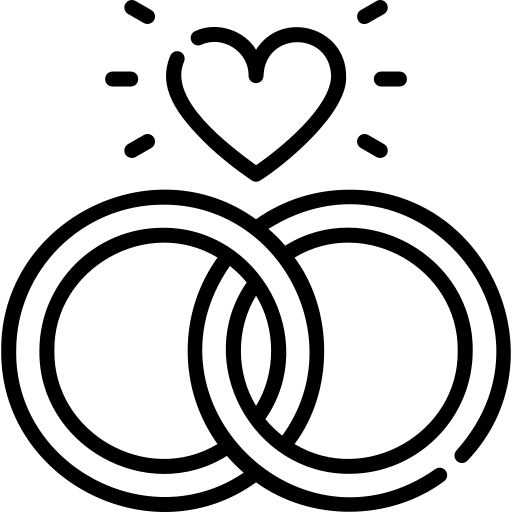
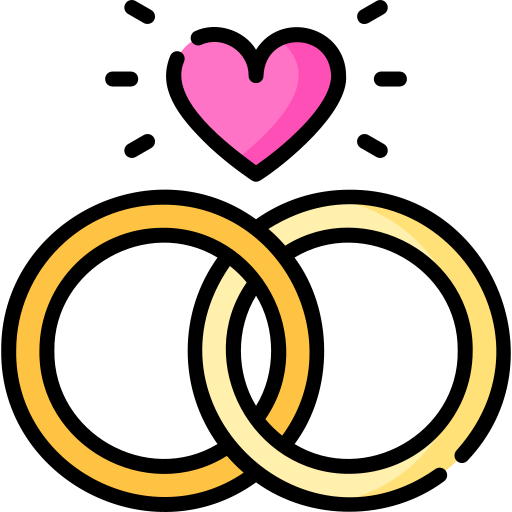
finish1

Changed region(s): [[0.0312, 0.375, 0.9688, 0.9688], [0.3438, 0.0625, 0.6562, 0.3125]]

diff --git a/src/index.html b/src/index.html
@@ -5,7 +5,7 @@
   <title>Wedding</title>
   <base href="/">
   <meta name="viewport" content="width=device-width, initial-scale=1">
-  <link rel="icon" type="image/x-icon" href="favicon.ico">
+  <link rel="icon" type="image/png" href="/marriage.png">
 </head>
 <body>
 
